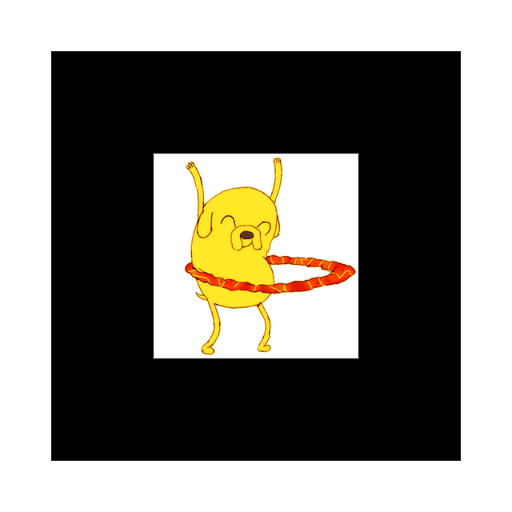
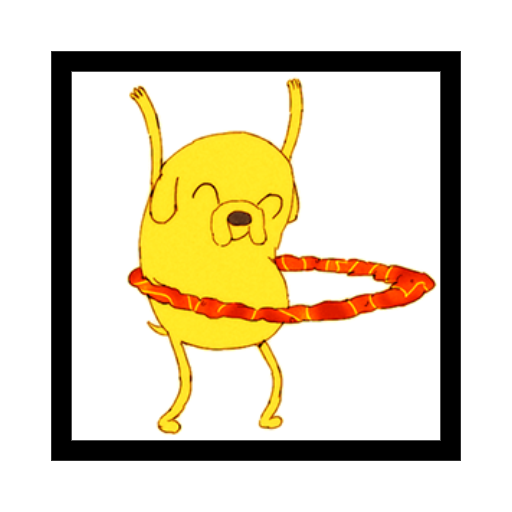
qr code

diff --git a/texture-pig.html b/texture-pig.html
@@ -94,12 +94,12 @@ function initialize()
 	markerRoot1 = new THREE.Group();
 	scene.add(markerRoot1);
 	let markerControls1 = new THREEx.ArMarkerControls(arToolkitContext, markerRoot1, {
-		type: 'pattern', patternUrl: "data/pattern-marker (40).patt",
+		type: 'pattern', patternUrl: "data/pattern-marker pig.patt",
 	})
 	let geometry1 = new THREE.PlaneBufferGeometry(1,1, 4,4);
 	//let loader = new THREE.TextureLoader();
 	//let texture = new THREE.ImageUtils.loadTexture( 'images/tumblr_oofhopNoKn1s3rn2wo7_250.gif', render );
-	let texture = new THREE.ImageUtils.loadTexture( 'images/gallery250.gif', render );
+	let texture = new THREE.ImageUtils.loadTexture( 'images/ezgif.com-resize-pig.gif', render );
 	let material1 = new THREE.MeshBasicMaterial( { map: texture } );
 	
 	mesh1 = new THREE.Mesh( geometry1, material1 );
